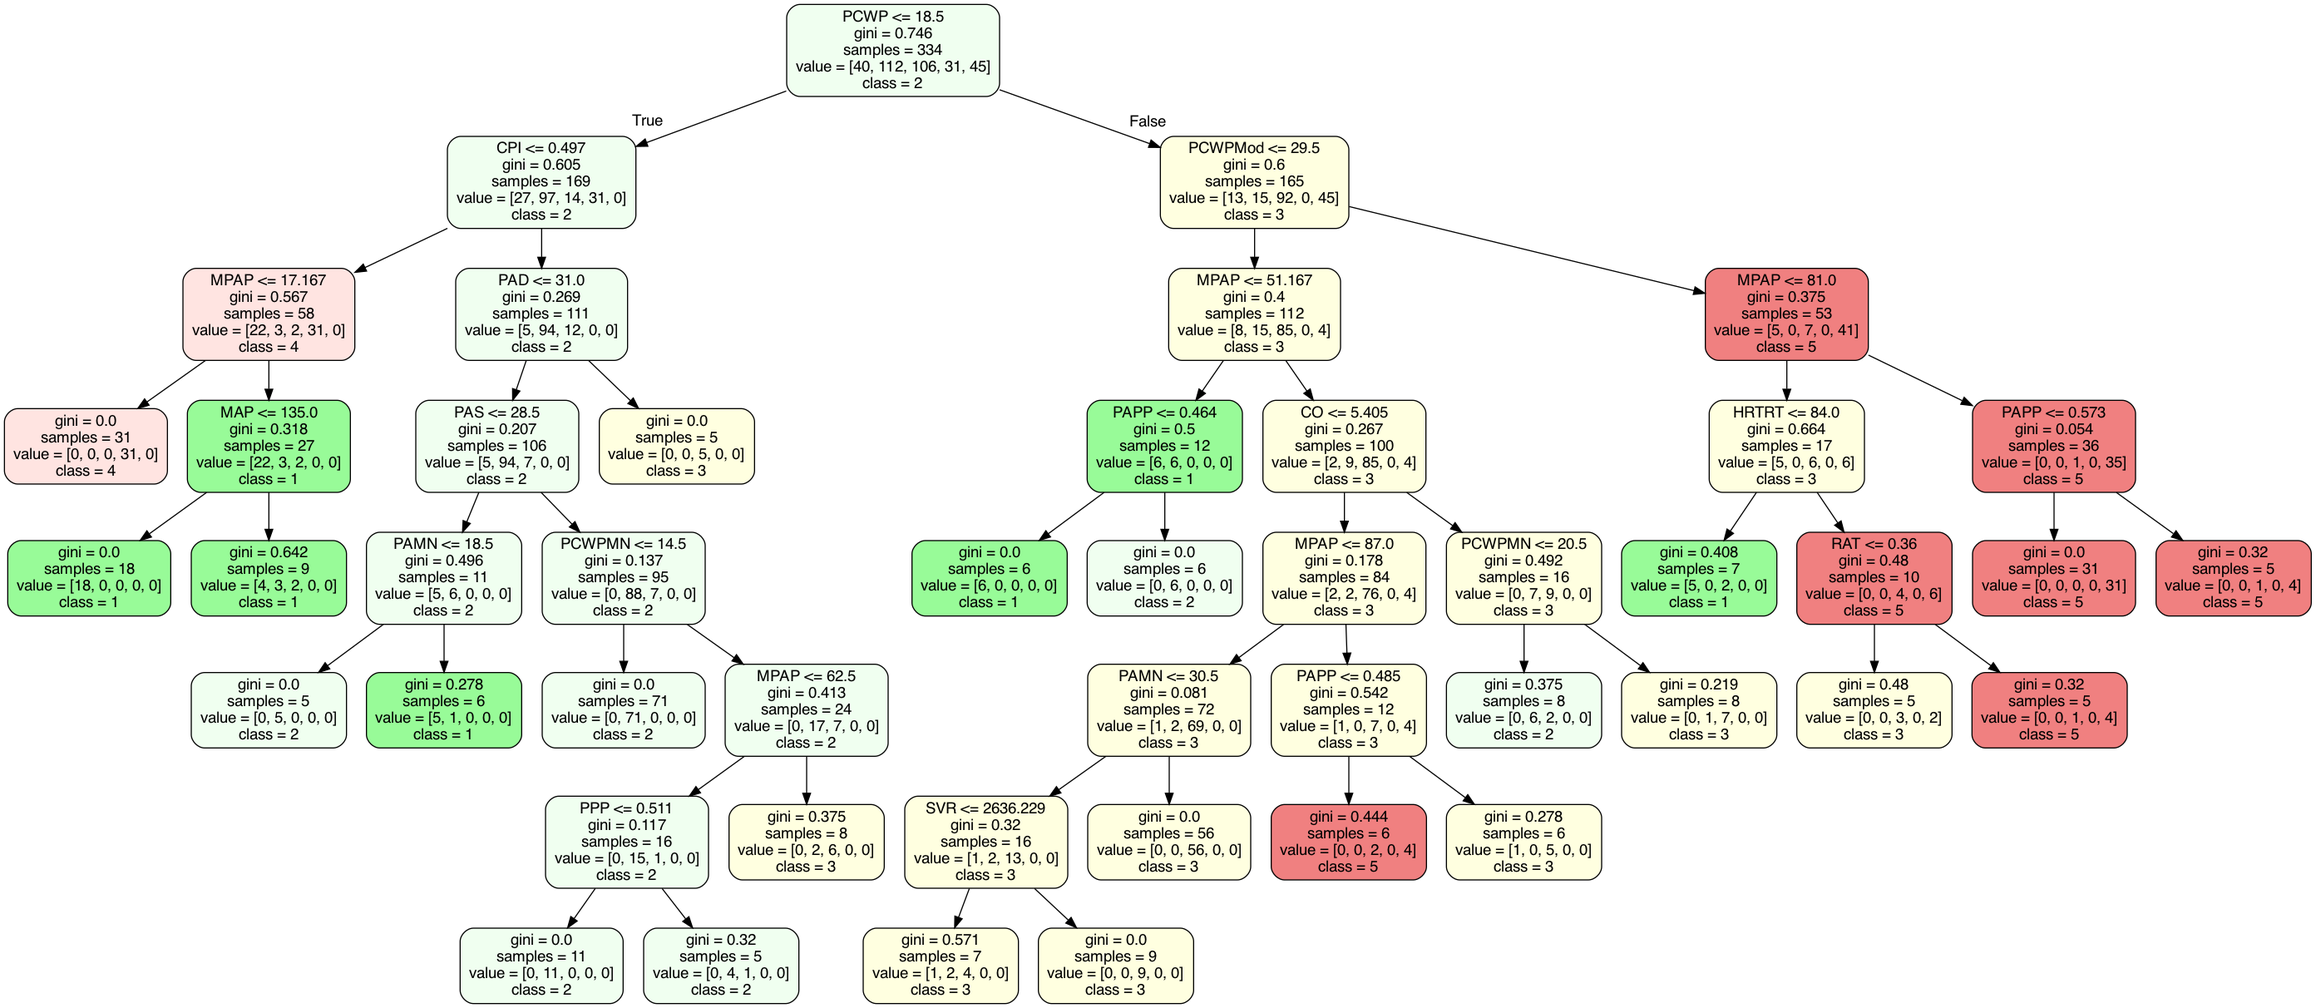
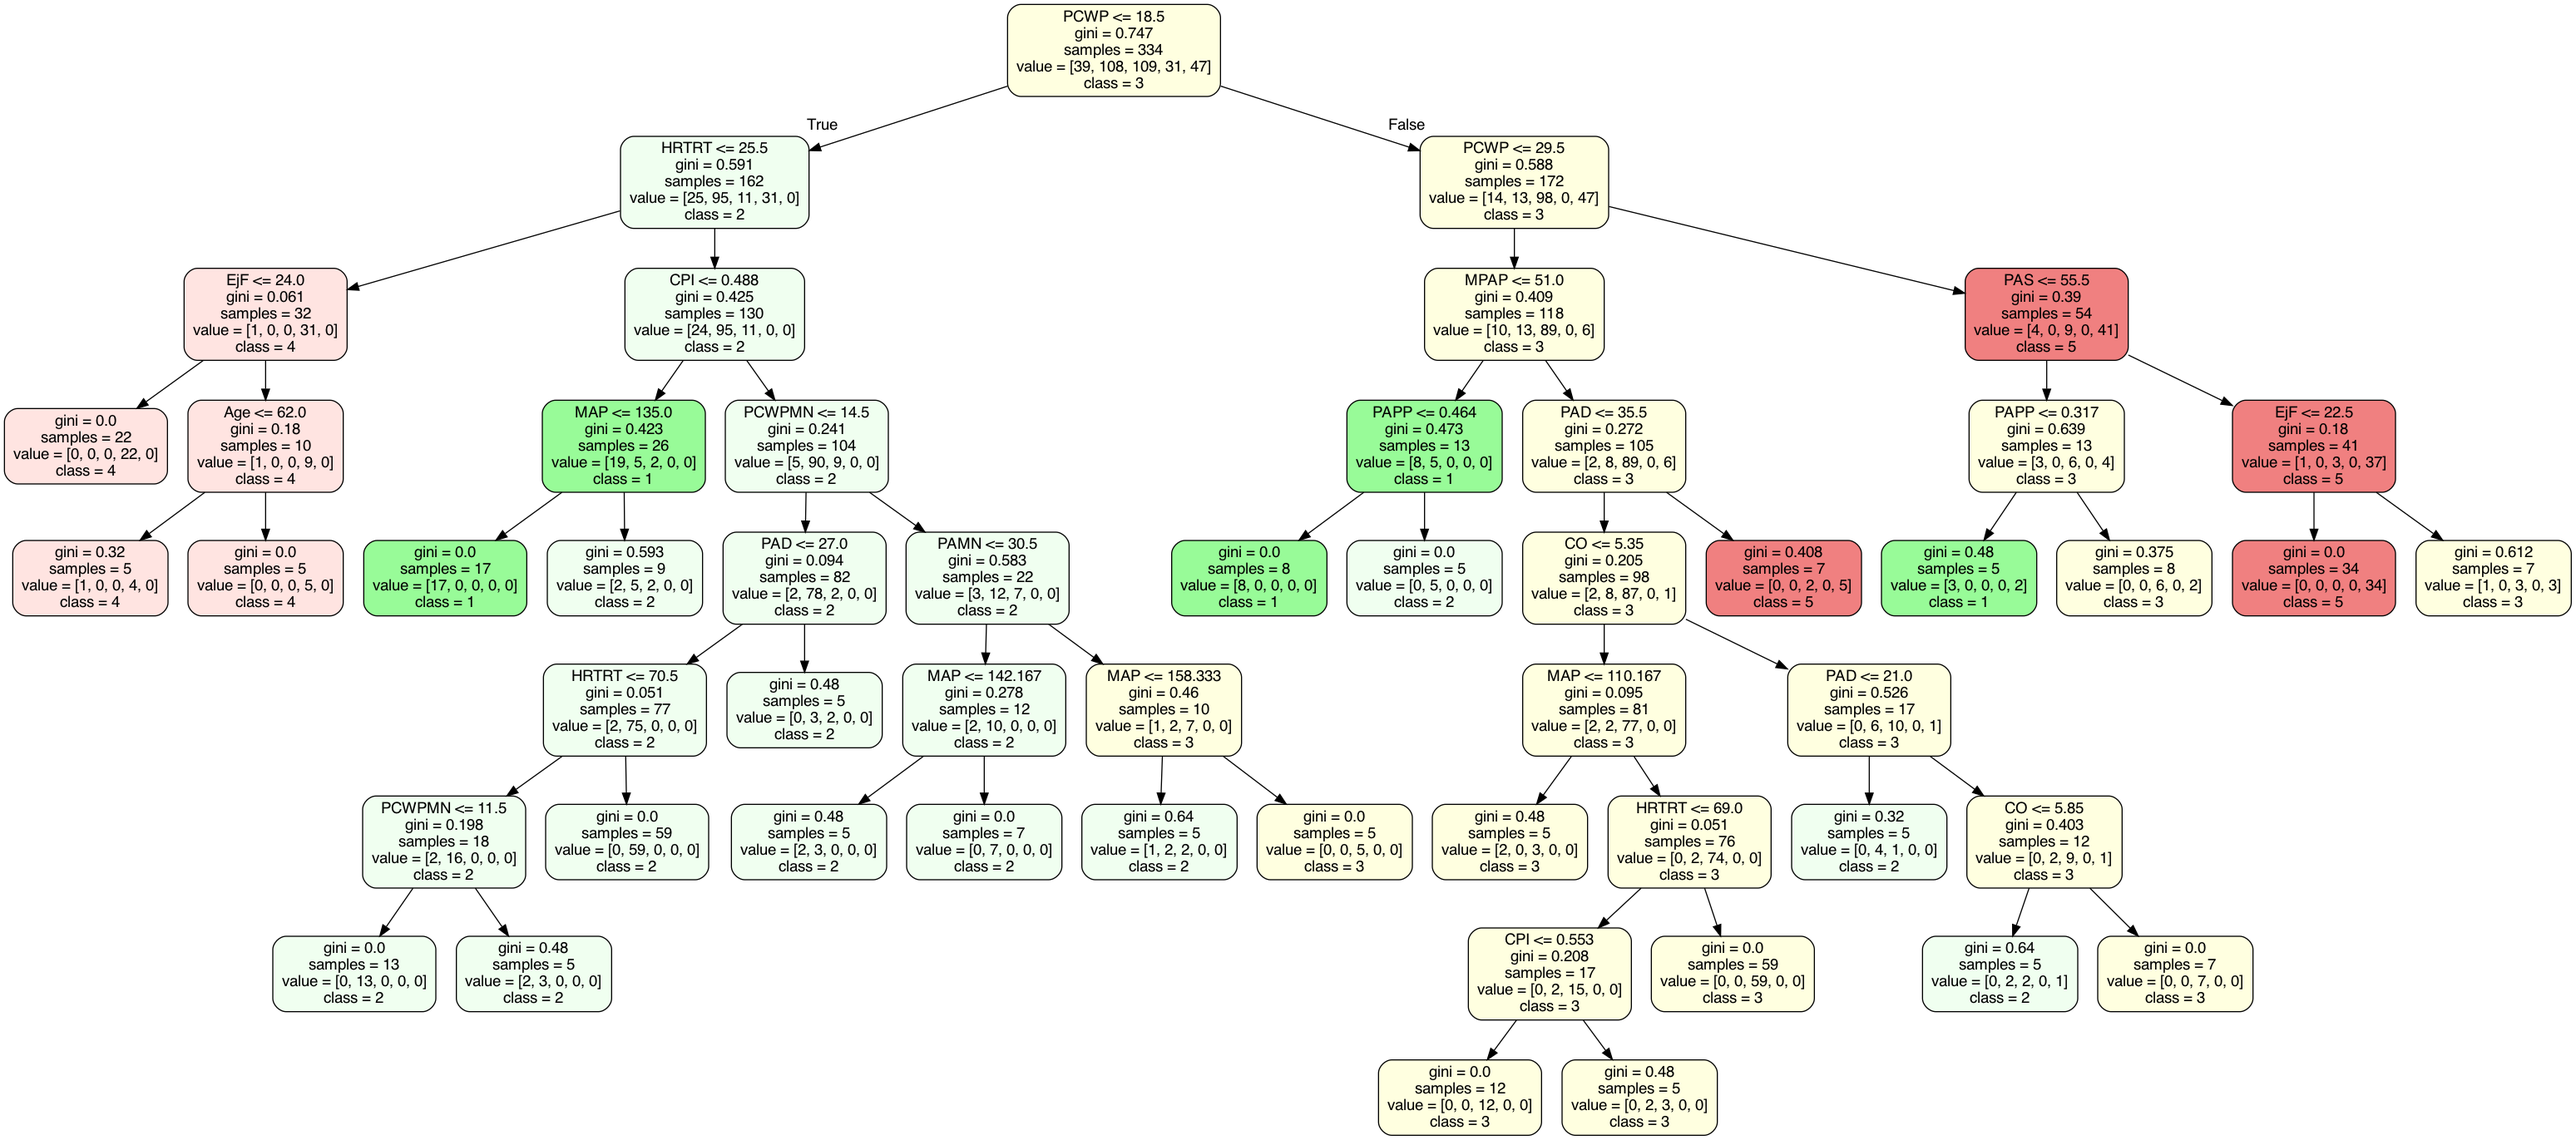
completed implementation of changing of decision diagrams

diff --git a/MVDD/MVDD.py b/MVDD/MVDD.py
@@ -76,8 +76,8 @@ class MVDD:
     # Predicts score from a dictionary of feature values
     # INPUT = feature dictionary of actual data values
     # OUTPUT = predicted score and the final path illustrating the used phenotype
-    def predictScore(self, featureDict):
-        paths = self.get_all_tree_paths()
+    def predictScore(self, featureDict, terminalIndices):
+        paths = self.get_all_tree_paths(terminalIndices)
         # print(paths)
 
         scores = []
@@ -229,14 +229,19 @@ class MVDD:
     #Get all tree paths from root
     # INPUT = N/A
     # OUTPUT = returns a list of all paths through the mvdd dot tree
-    def get_all_tree_paths(self):
+    def get_all_tree_paths(self, terminalIndices):
         allPaths = []
-        for t in ['1', '2', '3', '4', '5']:
+        for t in terminalIndices:
             for p in self.all_simple_paths(self.dot, self.root, t):
+                # print(p)
                 path = []
 
                 for i in range(len(p)-1):
-                    path.append(p[i])
+                    label = self.dot.nodes[p[i]]['label']
+                    label = label.replace("\"", "")
+                    ft = label.split('\\n')[0]
+                    path.append(ft)
+
                     style = self.dot.get_edge_data(p[i], p[i+1], 0)['style']
                     bound = self.dot.get_edge_data(p[i], p[i + 1], 0)['op']
                     param = self.dot.get_edge_data(p[i], p[i + 1], 0)['param']
@@ -246,7 +251,11 @@ class MVDD:
                     path.append(param)
                     path.append(op)
 
-                path.append(p[len(p)-1])
+                label = self.dot.nodes[p[len(p)-1]]['label']
+                label = label.replace("\"", "")
+                cls = label.split('\\n')[-1]
+                cls = cls.replace("class = ", "")
+                path.append(cls)
                 allPaths.append(path)
 
         return allPaths

diff --git a/TrainRiskScore.py b/TrainRiskScore.py
@@ -210,7 +210,7 @@ def findBestParams():
 
 
 def main():
-    # runTrees()
+    runTrees()
 
 
 
